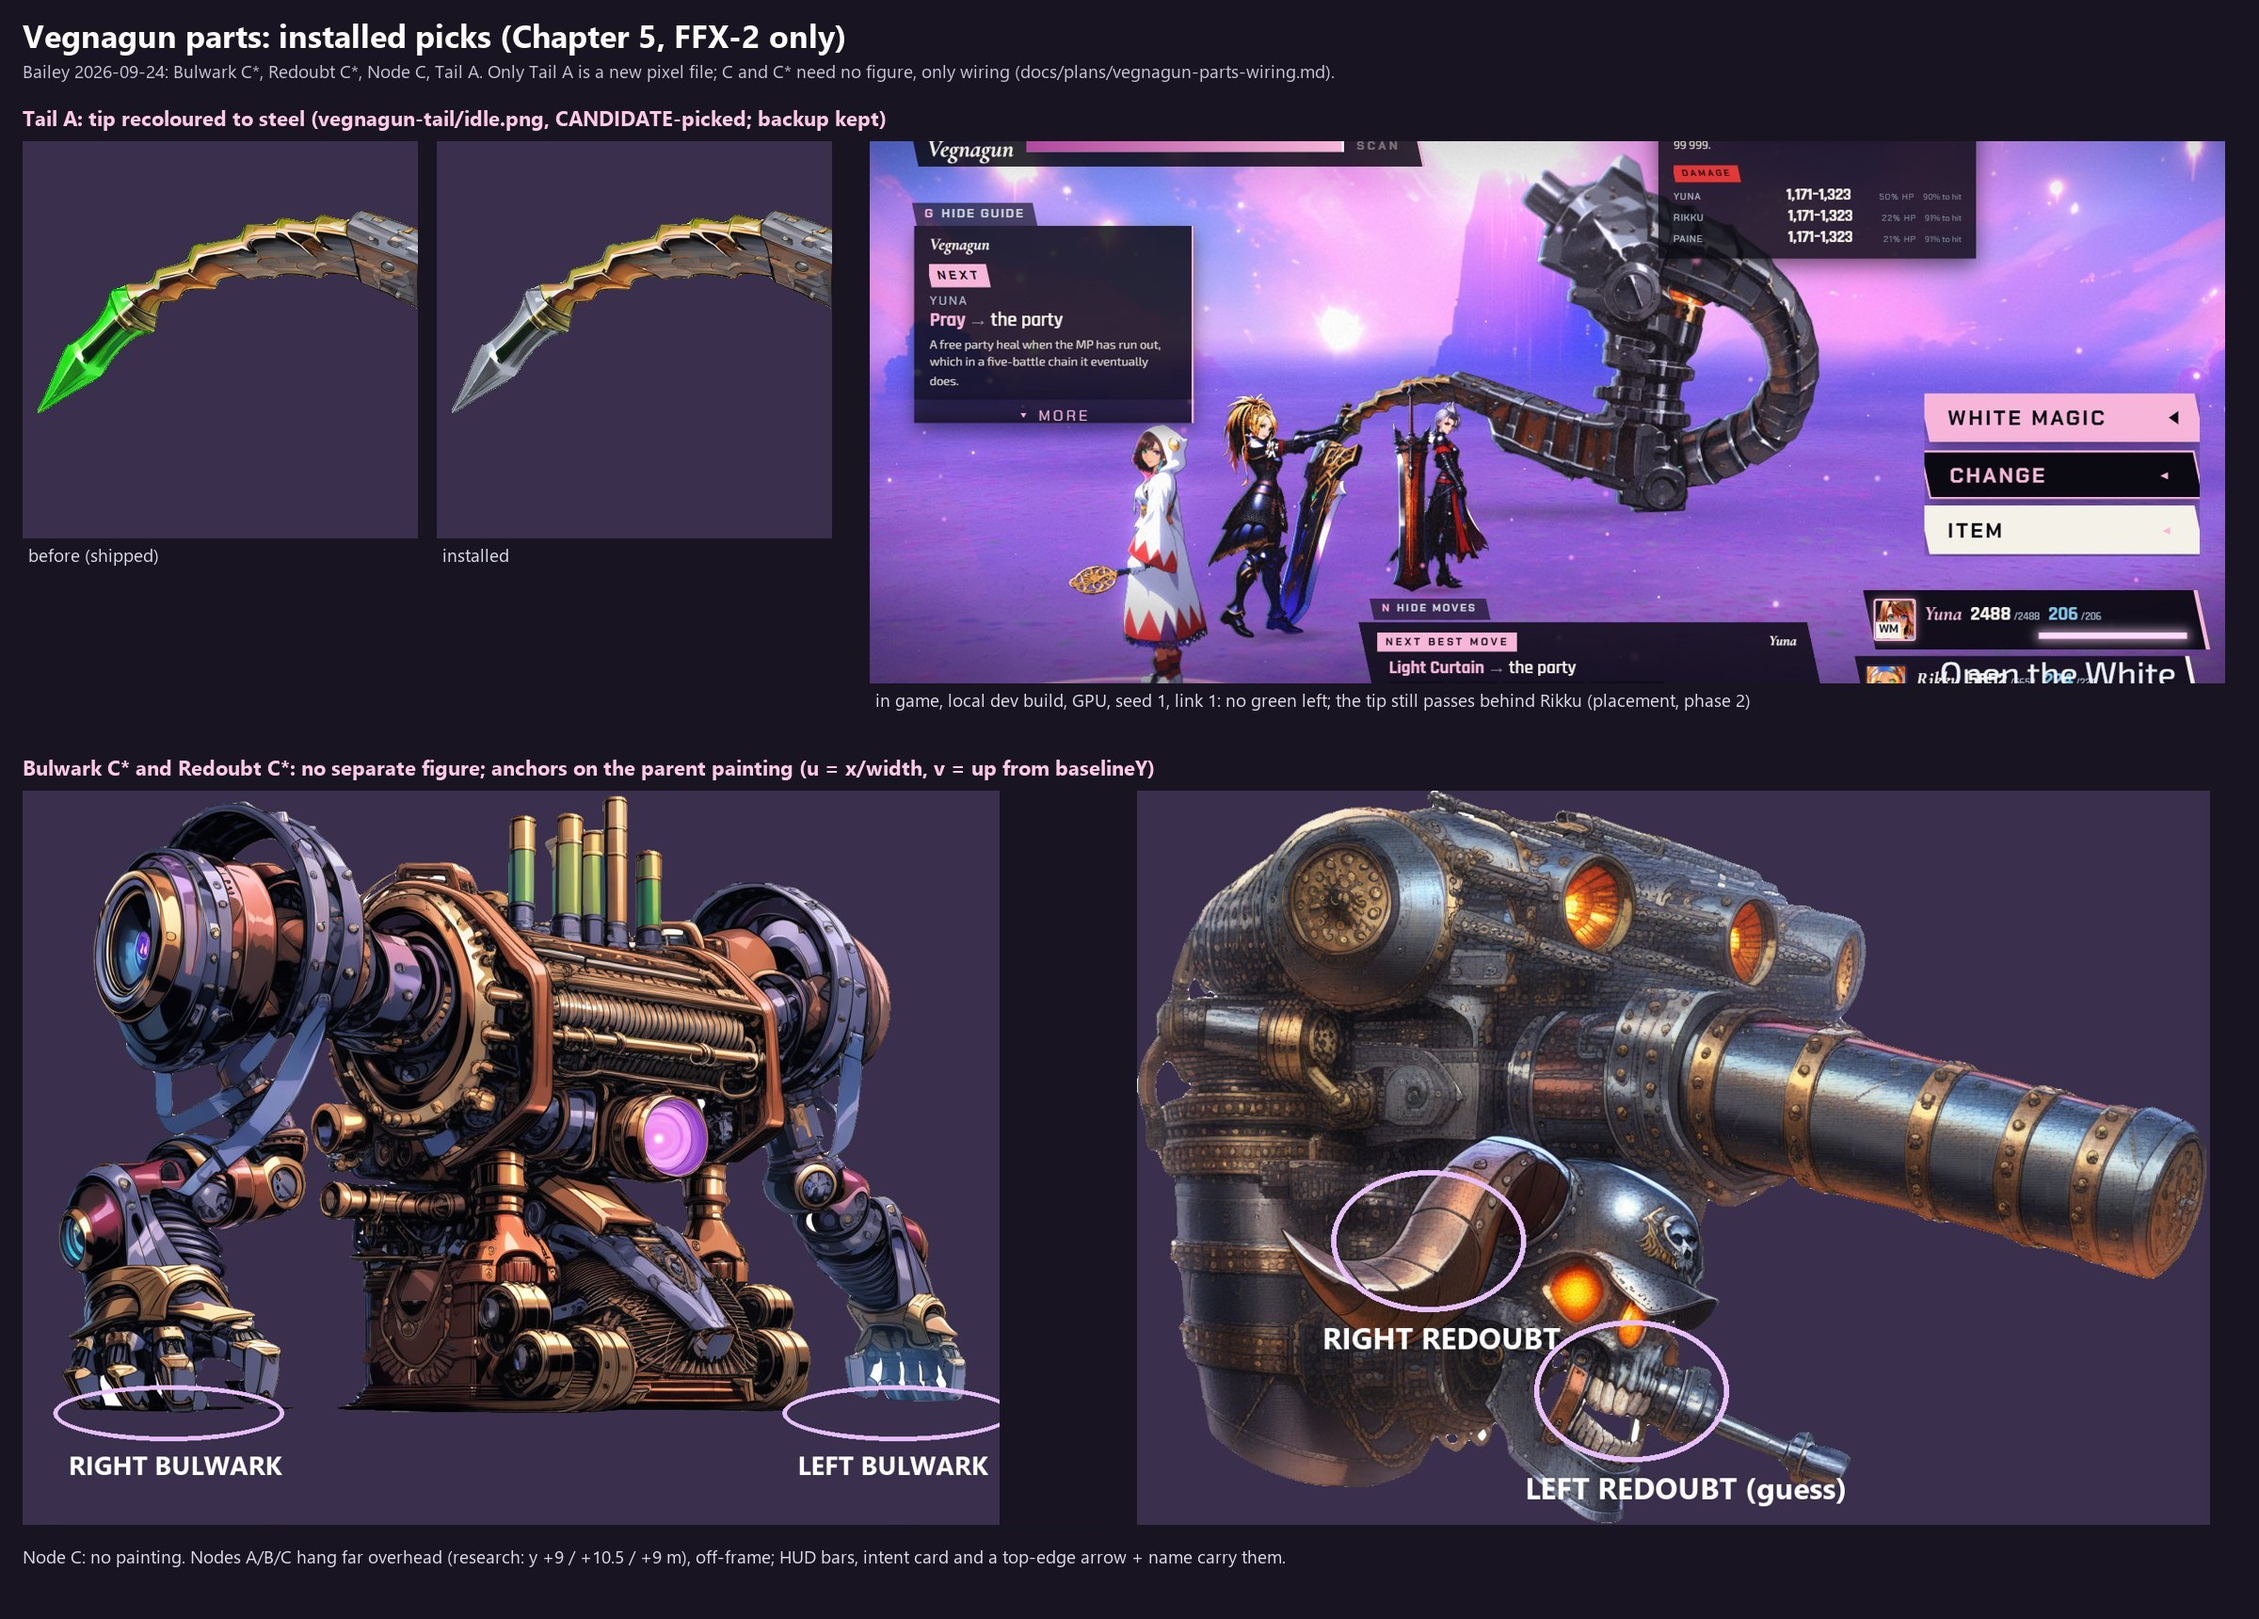
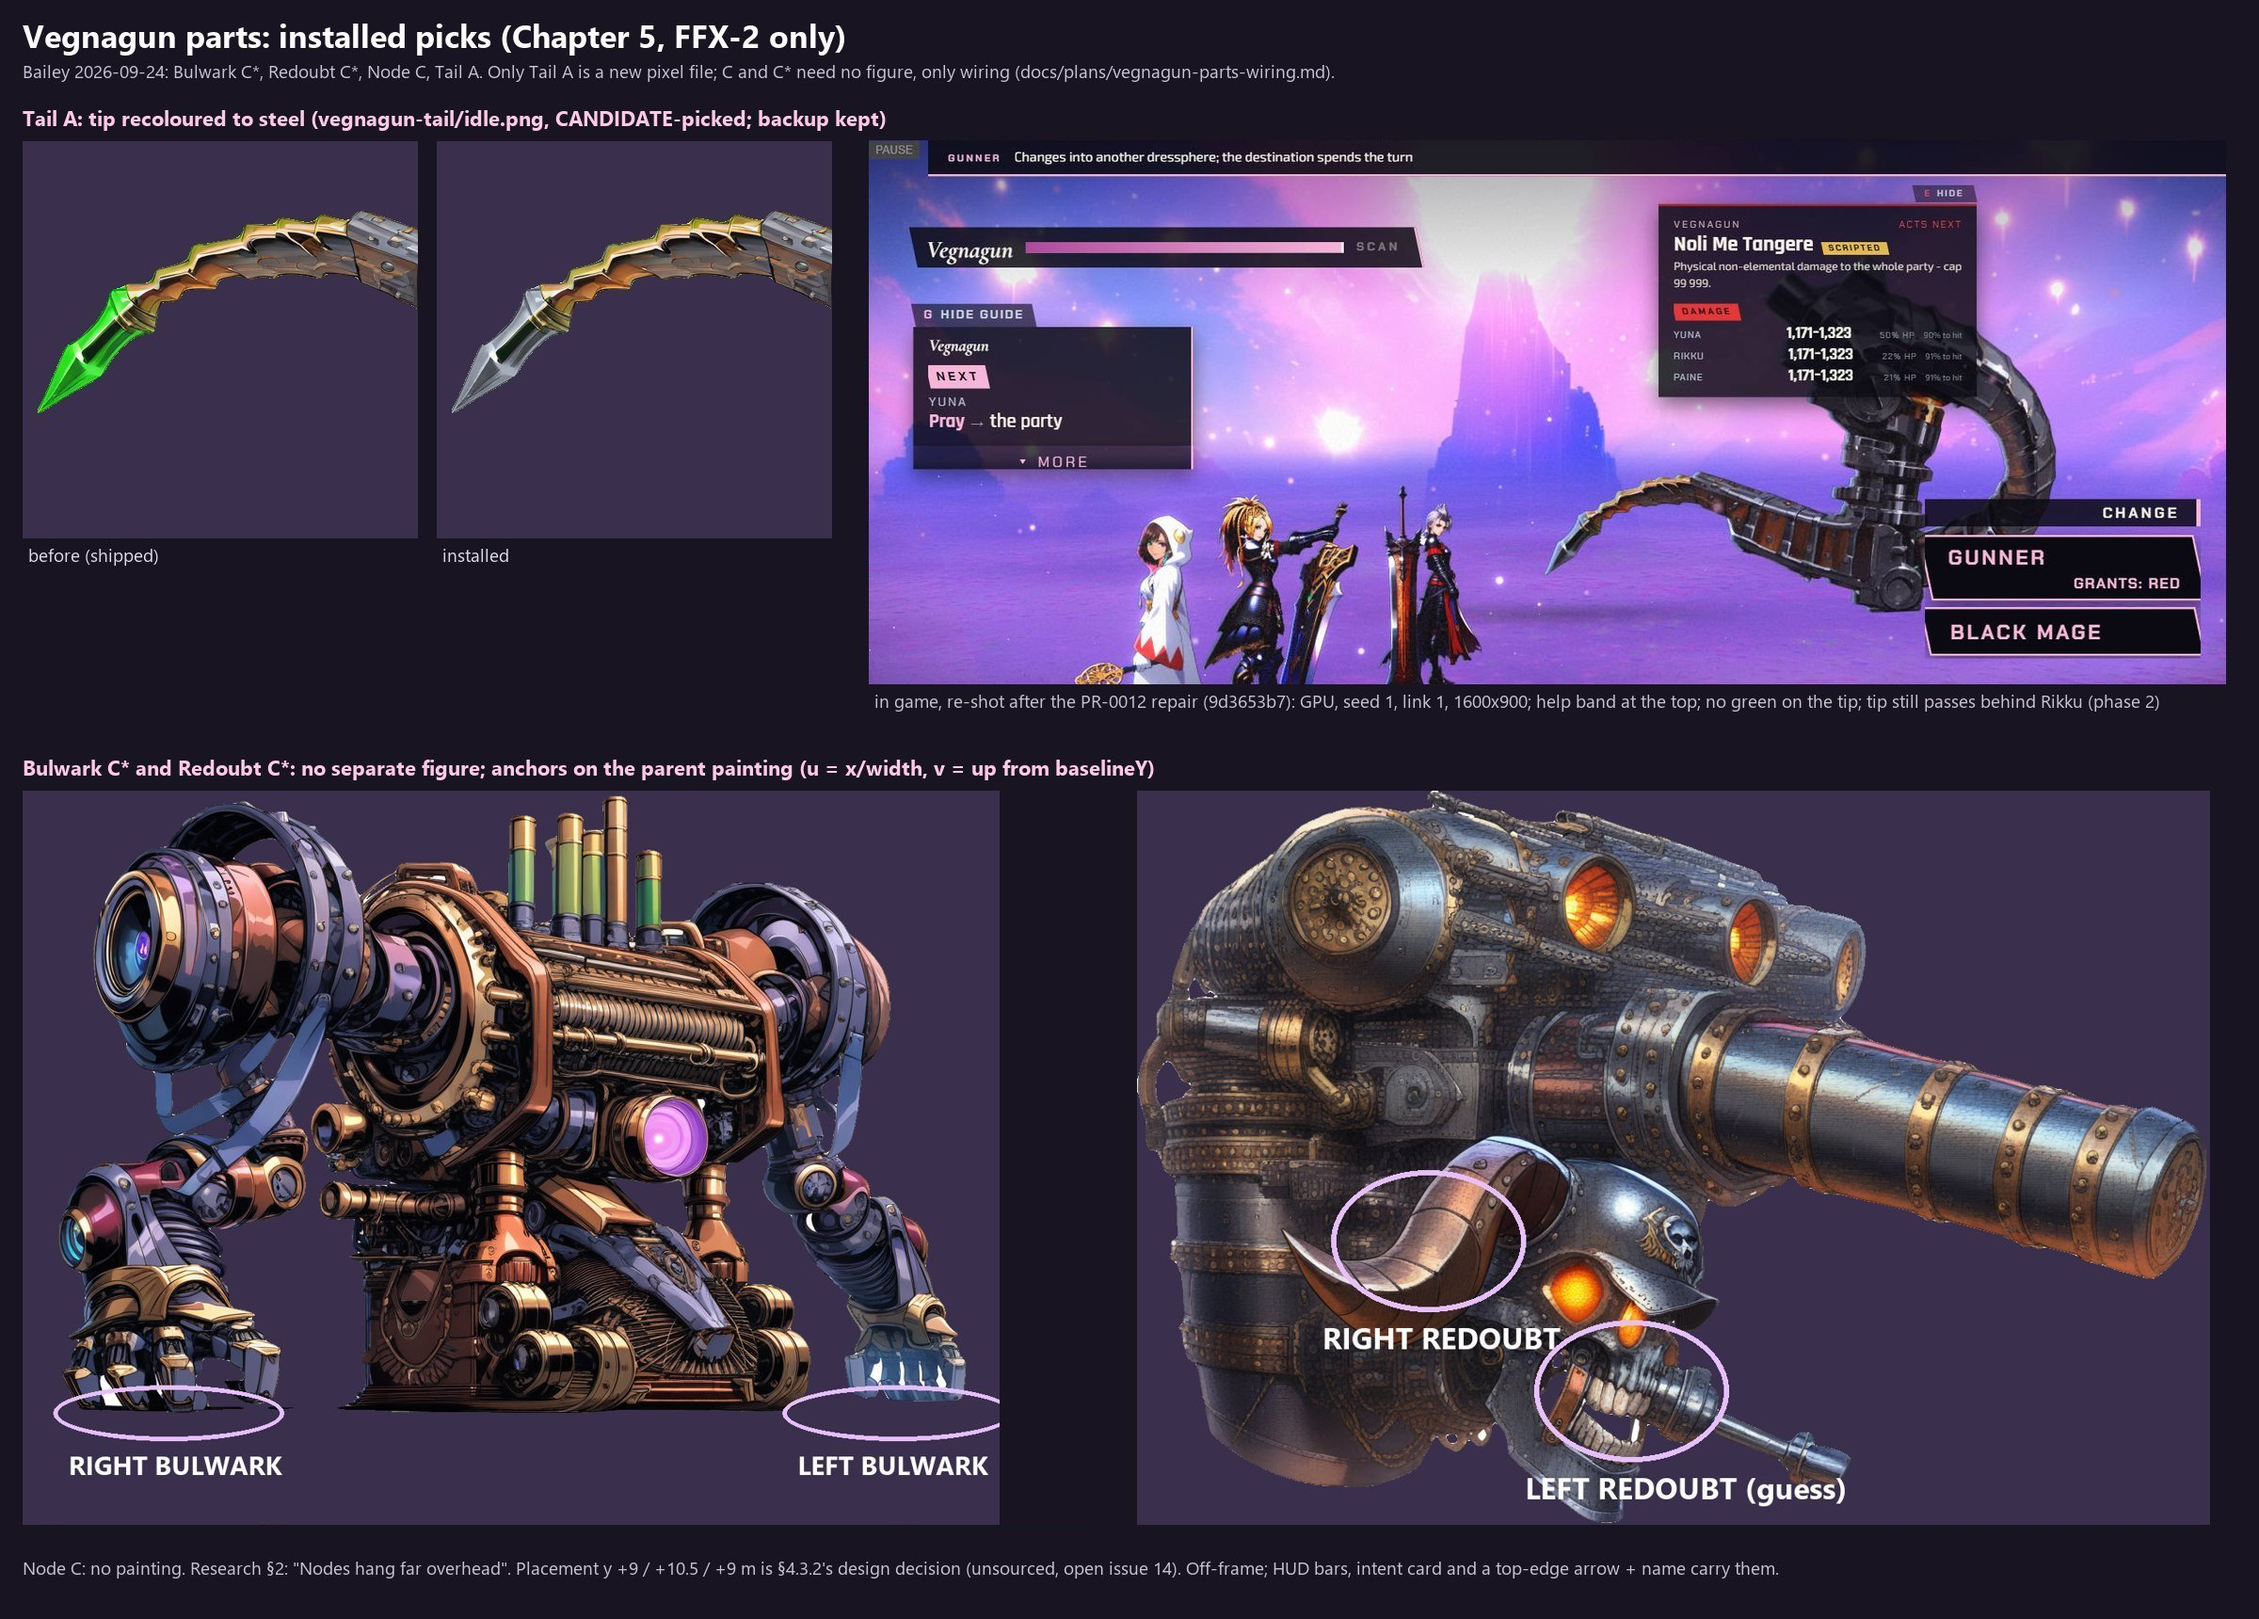
Vegnagun parts plan: Node heights are a design decision, not sourced; carry the Redoubt label and Node arrow conditions; keep Node markers clear of the help band; re-shoot the sheet's in-game frame (FFX-2 only)
Independent check of 9ebd905e:
- The plan called the Node y values (+9 / +10.5 / +9) sourced. research/ffx2-vegnagun-shuyin.md open issue 14 says the §4.3 geometry is entirely unsourced apart from the 5 m radius and the 2 s window; only 'Nodes hang far overhead' (§2) is research. Reworded in the plan and in installed.jpg's Node caption (rule 6).
- Added the judge's conditions: Redoubt C* is at the bar only once its LEFT REDOUBT label stops being clipped by the command menu (1600x900), and the Node C arrow must sit inside its own plate (was ~90 px off). Both are phase-2 checks now. Judge text: docs/concepts/portraits/nooj-brother/JUDGE.md, Vegnagun section.
- The Node edge markers were planned for the top edge, where the PR-0012 help band (D-040) now sits. The plan puts them under the band's reserved strip (commandHelpBand.ts bandReserve), clear of the boss strip, Active/Wait chip and intent slab.
- installed.jpg's in-game frame showed an earlier uncommitted help-slab placement over the party rows; replaced with a GPU frame after 9d3653b7 (ch5, seed 1, link 1, 1600x900). Previous sheet backed up to D:/Tools/pyrefly-art-backup/candidates/2026-09-24-picks/sheets/.

Docs only. FFX-2 only: Vegnagun is Chapter 5.

Changed region(s): [[0.375, 0.0616, 1.0, 0.4622], [0.0, 0.9552, 0.5938, 0.986]]

diff --git a/docs/plans/vegnagun-parts-wiring.md b/docs/plans/vegnagun-parts-wiring.md
@@ -82,11 +82,12 @@ Anchors are in the parent's `idle.png` pixel space, normalised:
 - World position: `parent.position + ((u - 0.5) * parent.worldWidth, v * parent.worldHeight, +0.05 toward the camera)`. `worldWidth` is `worldHeight * width / (baselineY - contentTop)`. Re-read the parent every frame so breathe, sway and hop carry the ring.
 - **Which part is which.** The part list order in `vegnagun-body.ts` and `vegnagun-head.ts` decides Right and Left. Map by id, not by slot index.
 - The Bulwark ground ring is also where the research's **5 m counter decal** (`research/ffx2-vegnagun-shuyin.md` §4.3.5) should be centred when that is built. The counter is positional, which is why off-screen was not offered for the Bulwarks.
+- **Redoubt C\* is at the bar only once its label is fixed.** The judge scored it 7.6 "(fix the label)": in the C\* mock the "LEFT REDOUBT" label was clipped to "LEFT REDOUB" by the command menu at 1600x900 (`docs/concepts/portraits/nooj-brother/JUDGE.md`, Vegnagun section; D-044 records the same condition). Whatever names a ring (the target plate or a ring label) must be placed on the side away from `.ffx2hud__command`, or dodge it the way the intent slab does; the phase-2 check measures the label's full text box against the command window at all four sizes, 0 px² overlap and no ellipsis.
 - Ring look: reuse `TargetHighlight` / `turnRing` styling (violet `0xc8a0ff`, as the C\* mock used), shown while the part is targeted, acting or selectable. A KO'd part's ring fades out; the parent painting stays.
 
 ### 4. Node C: overhead, off-frame
 
-Research §2 says "Nodes hang far overhead", and §4.3.2 gives the anchors:
+Research §2 says "Nodes hang far overhead" (the only sourced claim about where the Nodes are). §4.3.2 gives anchors, but they are a **Pyrefly design decision, not a source**: the research's own open-issues row 14 says the §4.3 battlefield geometry is "entirely unsourced" apart from the 5 m radius and the 2 s chain window (AGENTS.md rule 6).
 
 | Node | x | z | y |
 |---|---|---|---|
@@ -94,9 +95,11 @@ Research §2 says "Nodes hang far overhead", and §4.3.2 gives the anchors:
 | B | +6.0 | 0.0 | **+10.5** |
 | C | +5.0 | −6.0 | **+9.0** |
 
-- The research values are in its wide-field frame (party at x −5..−6). This scene uses its own frame, with the leg on `ENEMY_SLOTS[0] = [0.8, 0, -5.0]`. Place the Nodes **relative to the leg**: `leg.position + (dx, y, dz)` with dx ≈ +2 / +3 / +2, the research's y (9 / 10.5 / 9), and dz ≈ −1.5 / 0 / +1.5. Those dx and dz values are staging, not sourced; the y values are sourced.
+- The research values are in its wide-field frame (party at x −5..−6). This scene uses its own frame, with the leg on `ENEMY_SLOTS[0] = [0.8, 0, -5.0]`. Place the Nodes **relative to the leg**: `leg.position + (dx, y, dz)` with dx ≈ +2 / +3 / +2, the research's y (9 / 10.5 / 9), and dz ≈ −1.5 / 0 / +1.5. None of these numbers is sourced: dx and dz are staging chosen here, and the y values are §4.3.2's own design decision. Re-tune all three against the camera; do not cite them as game data.
 - Check that all three project **above the top edge** (screen y < 0) at the chapter's camera. If one does not, raise it rather than lower the others.
-- **Edge marker (the C mock):** for each live Node whose projected point is off-frame, draw a small arrow plus the name ("NODE A") at the top edge. Clamp its x to the projection and colour it by the Node's colour state (red, green, yellow, from the §3.2 state machine the engine already runs). This is DOM chrome in the FFX-2 HUD, so a later agent owns it: `src/ui/ffx2`, not `src/ui/ffx`.
+- **Edge marker (the C mock):** for each live Node whose projected point is off-frame, draw a small arrow plus the name ("NODE A") at the top of the frame. Clamp its x to the projection and colour it by the Node's colour state (red, green, yellow, from the §3.2 state machine the engine already runs). This is DOM chrome in the FFX-2 HUD, so a later agent owns it: `src/ui/ffx2`, not `src/ui/ffx`.
+  - **Arrow and plate are one unit.** The judge found the C mock's Node C arrow about 90 px right of its "NODE C" plate (`docs/concepts/portraits/nooj-brother/JUDGE.md`, Vegnagun section). Build the arrow as a child of the plate, centred on it, and clamp the pair together; the test below checks the arrow's centre x is within the plate's box.
+  - **Do not collide with the command-help band (D-040, PR-0012).** Since 3fc3a931 / 9d3653b7 a full-width band sits at the top of the FFX-2 stage (`.ffx2-cmd-info`, 17.33 grid units tall, `top: 0`, left edge after the PAUSE chip) whenever a command menu is open and BATTLE HELP is on; on a portrait letterbox it sits in the bar just above the stage (`src/ui/ffx2/commandHelpBand.ts`). The markers must sit **under** that band's reserved strip, not in it: put their top at `bandReserve()` (the same value the intent slab uses as headroom, from `commandHelpBand.ts`) plus a 2-unit gap, at all times while BATTLE HELP is on, so they do not jump when a menu opens. They must also stay clear of the boss strip (`.ffx2hud__enemies`, top 41) and the Active/Wait chip (`--x2-atbmode-top`, 22): the free row between them is narrow, so check at 1280x720, 1600x900, 2000x1012 and 390x844 and add the markers to `intentObstacles()` so the intent slab dodges them.
 - The HUD bars (Node A/B/C) and the intent card already carry the Nodes. Keep them.
 - The Nodes' long-range-only gating is engine data (`reachableBy`, §4.3.4), and placement must not change it.
 - `ENEMY_SLOTS` keeps four entries. Its comment about Node C landing on Node B stops mattering once the Nodes are anchored.
@@ -107,7 +110,8 @@ Research §2 says "Nodes hang far overhead", and §4.3.2 gives the anchors:
 - A Chapter 5 visual check at links 2, 3 and 4 (GPU, real keys):
   - no hooded cones;
   - rings on the forelegs and on the tusk and jaw when targeting;
-  - three edge markers at the top for the Nodes;
+  - three edge markers at the top for the Nodes, each arrow inside its own plate, none overlapping the command-help band, the boss strip, the Active/Wait chip or the intent slab;
+  - both Redoubt labels shown whole (no clipping by the command window);
   - the target cursor lands on the ring.
 - Re-run `tests/unit/engine/formation.test.ts` and `tests/unit/strategy-ffx2-vegnagun-shuyin.test.ts`.
 
